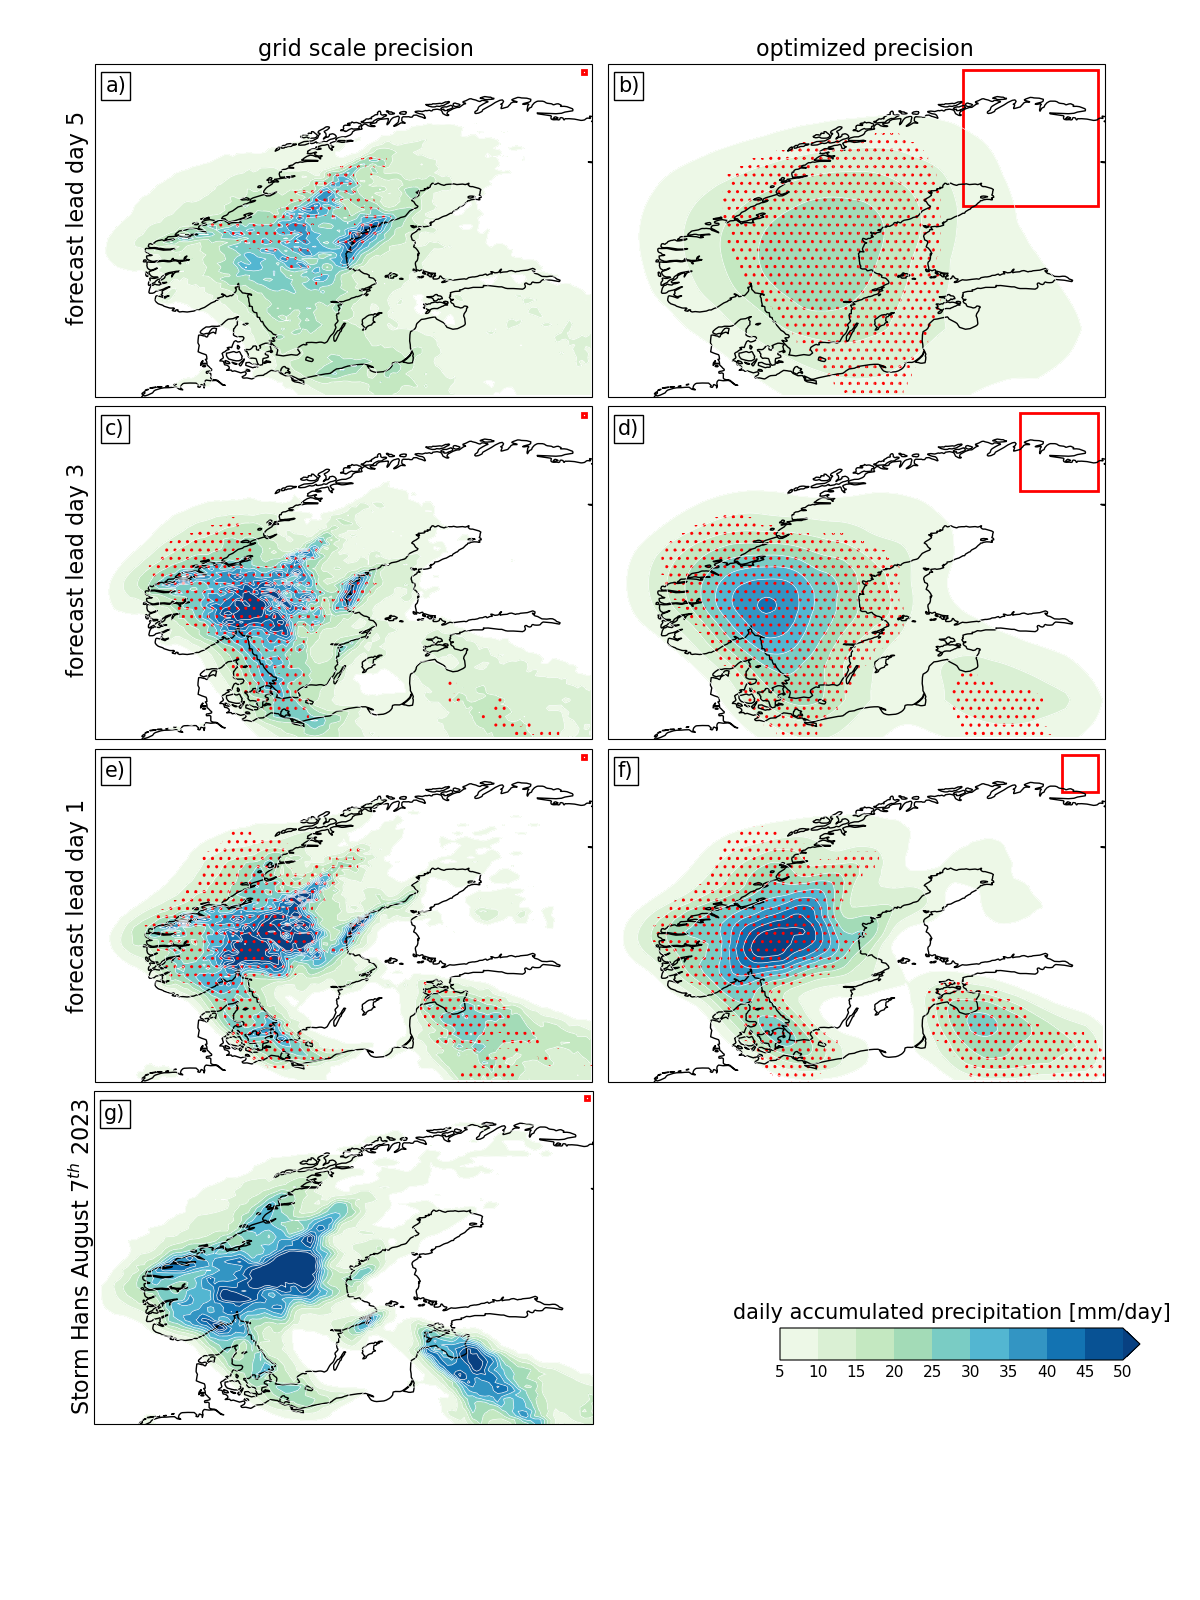
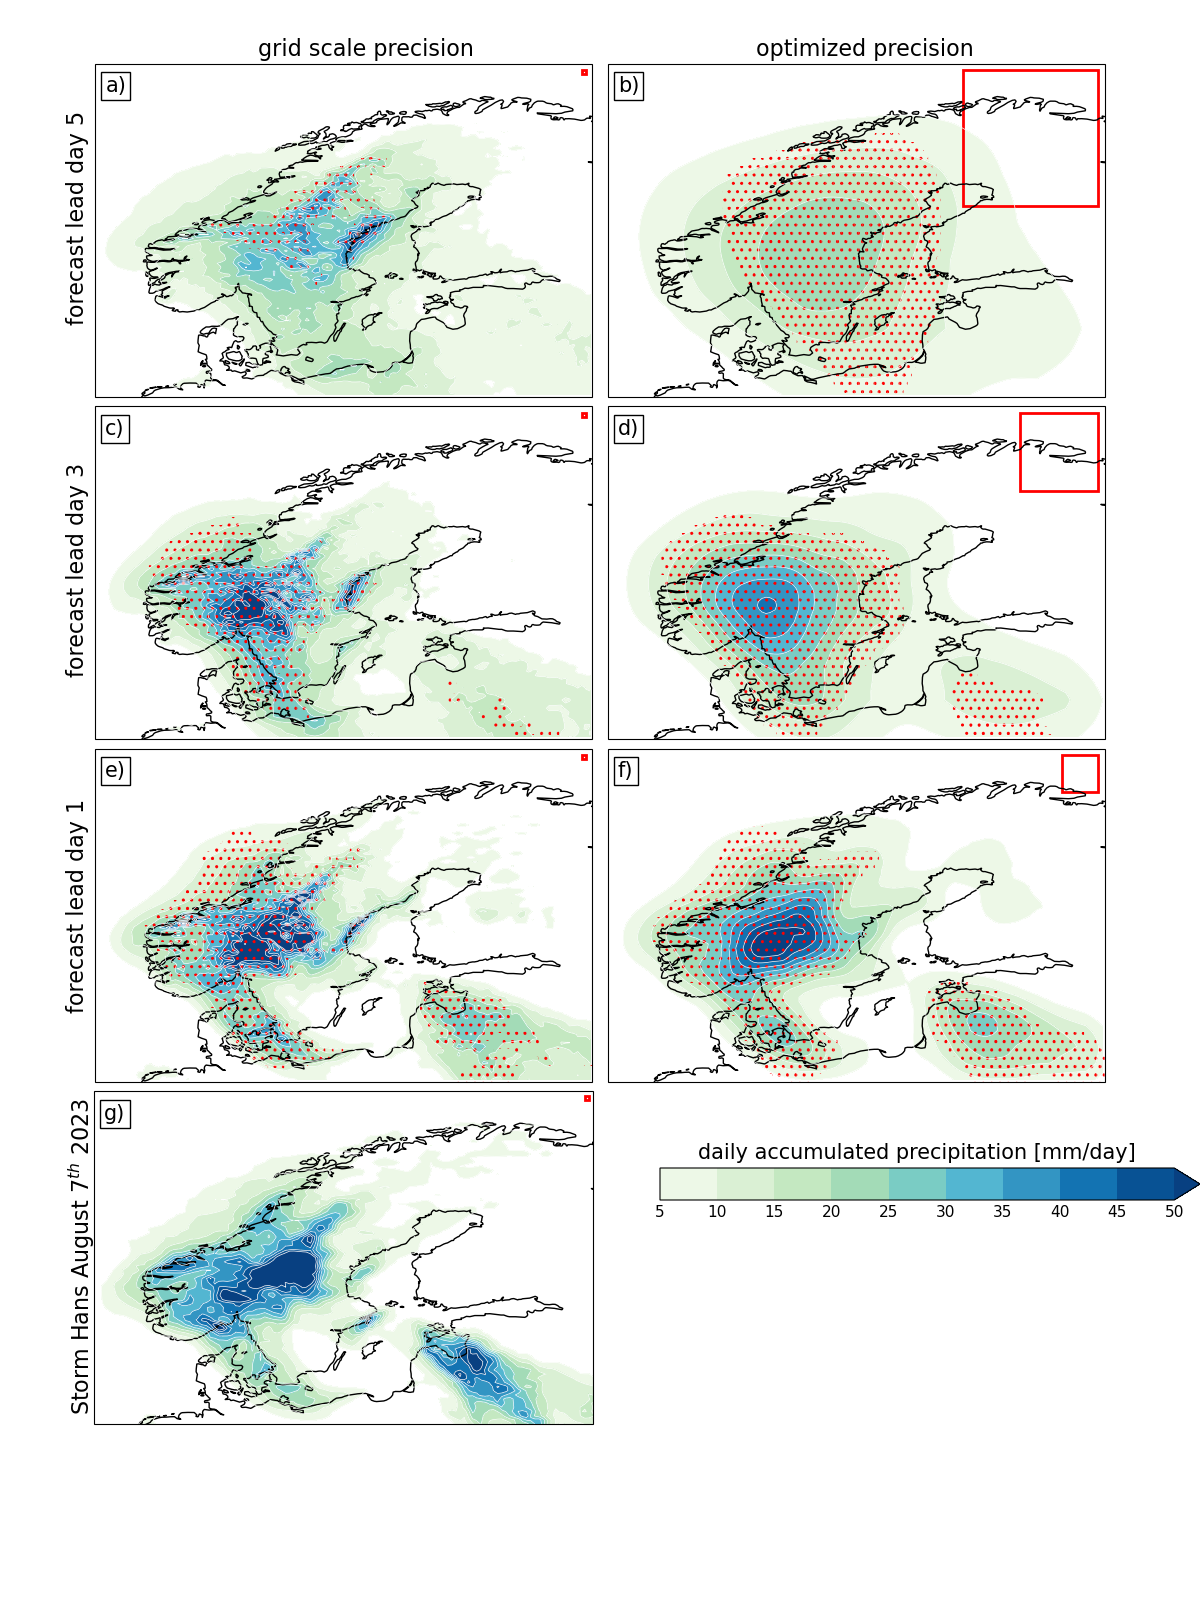
update

Changed region(s): [[0.6167, 0.8125, 0.9558, 0.875], [0.5858, 0.7188, 1.0, 0.75]]

diff --git a/code/plot/test.py b/code/plot/test.py
@@ -117,9 +117,9 @@ setup_subplot_xy(7, ax[6], da5['EFI'], da7[variable], clevs, cmap, fontsize, 'g)
 
 ax[7].set_frame_on(False)
 
-cbar_ax = fig.add_axes([0.65, 0.15, 0.3, 0.02])
+cbar_ax = fig.add_axes([0.55, 0.25, 0.45, 0.02])
 cb = fig.colorbar(p, cax=cbar_ax, orientation='horizontal',ticks=clevs, pad=0.025)
-cb.ax.tick_params(labelsize=fontsize, size=0)
+cb.ax.tick_params(labelsize=fontsize+2, size=0)
 cb.ax.set_title('daily accumulated precipitation [mm/day]', fontsize=fontsize+4,y=1.01)
 
 fig.text(0.215,0.965,'grid scale precision',fontsize=fontsize+5)
